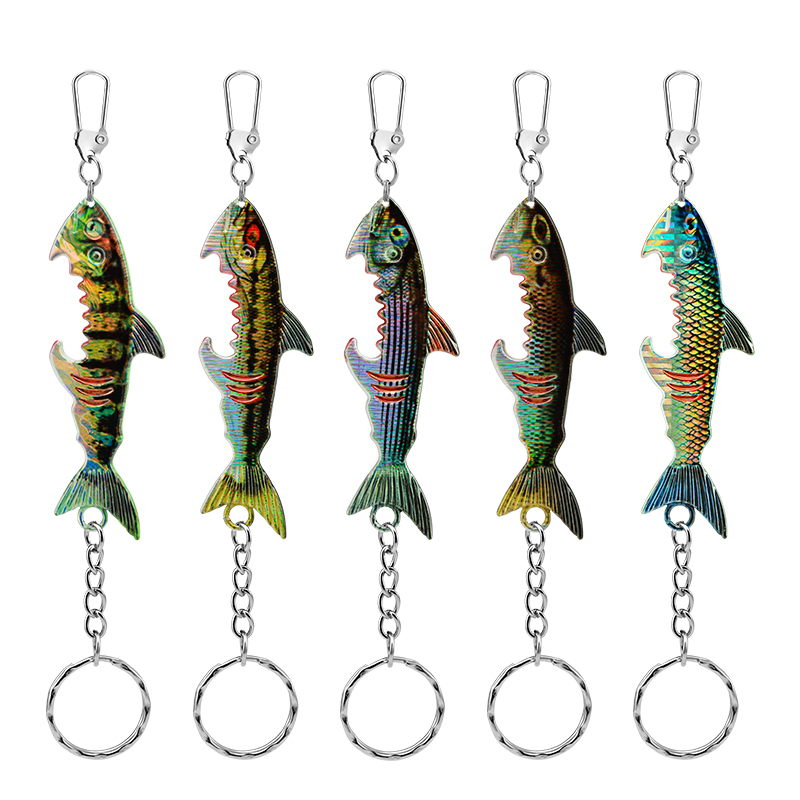
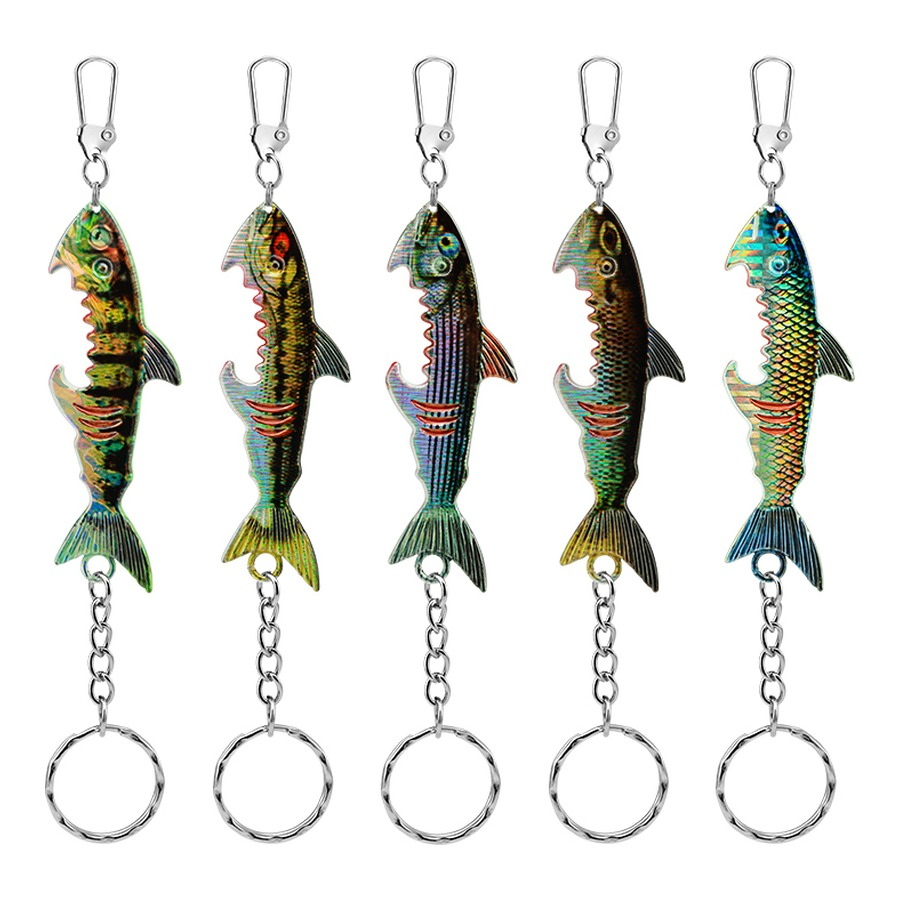
Uniform product grid: standardized square white-bg images, aligned cards and buy buttons

Changed region(s): [[0.0312, 0.0625, 0.9688, 0.9688]]

diff --git a/index.html b/index.html
@@ -189,27 +189,27 @@
   .gear-grid { display: grid; grid-template-columns: repeat(4, 1fr); gap: 20px; }
   .card {
     background: var(--navy-900); border: 1px solid var(--hairline);
-    border-radius: 6px; overflow: hidden; transition: transform .2s ease, border-color .2s ease;
+    border-radius: 6px; overflow: hidden;
+    display: flex; flex-direction: column;
+    transition: transform .2s ease, border-color .2s ease;
   }
   .card:hover { transform: translateY(-4px); border-color: rgba(217,158,70,0.4); }
   .card-thumb {
-    aspect-ratio: 4/3; display: grid; place-items: center; position: relative;
-    background:
-      radial-gradient(80% 90% at 50% 100%, rgba(217,158,70,0.14) 0%, rgba(217,158,70,0) 60%),
-      linear-gradient(180deg, var(--navy-700) 0%, var(--navy-900) 100%);
+    aspect-ratio: 1/1; display: grid; place-items: center; position: relative;
+    background: #fff;
   }
   .card-thumb .ph {
     font-family: var(--font-sub); font-size: 11px; letter-spacing: 2px;
-    text-transform: uppercase; color: var(--cream-faint);
+    text-transform: uppercase; color: #9a9a9a;
   }
   .card-thumb img {
     position: absolute; inset: 0; width: 100%; height: 100%;
-    object-fit: cover; opacity: 0; transition: opacity .3s ease;
+    object-fit: contain; opacity: 0; transition: opacity .3s ease;
   }
   .card-thumb img.loaded { opacity: 1; }
-  .card-body { padding: 22px; }
+  .card-body { padding: 22px; display: flex; flex-direction: column; flex: 1 1 auto; }
   .card-body h3 { font-family: var(--font-sub); font-size: 18px; letter-spacing: 1px; text-transform: uppercase; margin-bottom: 8px; }
-  .card-body p { font-size: 14.5px; color: var(--cream-dim); min-height: 44px; }
+  .card-body p { font-size: 14.5px; color: var(--cream-dim); min-height: 44px; flex: 1 1 auto; }
   .card-meta {
     display: flex; align-items: baseline; justify-content: space-between;
     gap: 12px; margin-top: 16px;
@@ -529,10 +529,10 @@
   <div class="wrap">
     <div class="sec-label">More in every box</div>
     <h2 class="sec-title">Hand-packed, every time</h2>
-    <p>Every order ships straight from us — a thank-you card, a Big C's sticker, and a free gift we think you'll like. It's our way of saying thanks for the first cast, and earning the next one.</p>
+    <p>Every order ships straight from us — a thank-you card, a random sticker, and a free gift we think you'll like. It's our way of saying thanks for the first cast, and earning the next one.</p>
     <div class="gift-row">
       <span class="gift-chip"><span class="dot">•</span>Thank-you card</span>
-      <span class="gift-chip"><span class="dot">•</span>Big C's sticker</span>
+      <span class="gift-chip"><span class="dot">•</span>Random sticker</span>
       <span class="gift-chip"><span class="dot">•</span>Free gift with purchase</span>
     </div>
   </div>

diff --git a/thank-you-card.html b/thank-you-card.html
@@ -1,0 +1,66 @@
+<!DOCTYPE html>
+<html lang="en">
+<head>
+<meta charset="UTF-8">
+<meta name="viewport" content="width=device-width, initial-scale=1.0">
+<title>Thank You Card — Big C's Fishing Co.</title>
+<link rel="preconnect" href="https://fonts.googleapis.com">
+<link rel="preconnect" href="https://fonts.gstatic.com" crossorigin>
+<link href="https://fonts.googleapis.com/css2?family=Bebas+Neue&family=Oswald:wght@400;600&family=Source+Sans+3:wght@400;600&display=swap" rel="stylesheet">
+<style>
+  * { margin: 0; padding: 0; box-sizing: border-box; }
+  body { background: #151515; min-height: 100vh; display: grid; place-items: center; padding: 24px; }
+
+  /* Card: 3.5" x 2" at 300dpi = 1050 x 600 px */
+  .card {
+    width: 1050px; height: 600px;
+    position: relative; overflow: hidden;
+    display: flex; align-items: center;
+    padding: 48px 60px;
+    background: #0a0d12;
+    color: #e6e0d4;
+    font-family: "Source Sans 3", "Segoe UI", sans-serif;
+    box-shadow: inset 0 0 0 6px #d99e46;
+  }
+
+  .logo { flex: 0 0 auto; width: 230px; height: 230px; margin-right: 52px; filter: drop-shadow(0 12px 34px rgba(0,0,0,0.55)); }
+  .logo img { width: 100%; height: 100%; object-fit: contain; display: block; }
+
+  .txt { flex: 1 1 auto; min-width: 0; }
+
+  .thanks {
+    font-family: "Bebas Neue", Impact, sans-serif; font-weight: 400;
+    font-size: 92px; line-height: 0.92; letter-spacing: 1px;
+    text-transform: uppercase; color: #e6e0d4;
+  }
+  .thanks .accent { color: #d99e46; }
+
+  .tagline {
+    font-family: "Oswald", "Arial Narrow", sans-serif; font-weight: 400;
+    font-size: 21px; letter-spacing: 5px; text-transform: uppercase;
+    color: #d99e46; margin: 16px 0 24px;
+  }
+
+  .body { font-size: 25px; line-height: 1.45; color: #b6ad9d; max-width: 44ch; }
+  .body strong { color: #e6e0d4; font-weight: 600; }
+
+  .foot {
+    margin-top: 28px;
+    font-family: "Oswald", "Arial Narrow", sans-serif; font-size: 16px;
+    letter-spacing: 2.5px; text-transform: uppercase; color: #8a8478;
+  }
+  .foot a { color: #d99e46; text-decoration: none; }
+</style>
+</head>
+<body>
+  <div class="card">
+    <div class="logo"><img src="assets/logo.png" alt="Big C's Fishing Co. logo"></div>
+    <div class="txt">
+      <div class="thanks">Thanks for<br>fishing <span class="accent">with us.</span></div>
+      <div class="tagline">Built to catch. Made to last.</div>
+      <div class="body">Hand-packed with a little extra in the box. Your feedback helps a small brand reach more anglers — a quick review means a lot.</div>
+      <div class="foot"><a href="mailto:hello@bigcsfishing.com">hello@bigcsfishing.com</a> &nbsp;·&nbsp; bigcsfishing.com</div>
+    </div>
+  </div>
+</body>
+</html>

diff --git a/_standardize.py b/_standardize.py
@@ -1,0 +1,50 @@
+import os
+from PIL import Image
+
+PRODUCTS = r"C:/Users/bclar/OneDrive/Desktop/Amazon FBA/big-cs-fishing-co/assets/products"
+BIG = r"C:/Users/bclar/OneDrive/Desktop/Amazon FBA/Big Cs Fishing"
+
+S = 900      # output square size
+PAD = 0.05   # padding fraction
+
+def standardize(src, out):
+    im = Image.open(src).convert("RGB")
+    w, h = im.size
+    corners = [im.getpixel((2, 2)), im.getpixel((w - 3, 2)),
+               im.getpixel((2, h - 3)), im.getpixel((w - 3, h - 3))]
+    lum = sum(c[0] + c[1] + c[2] for c in corners) / (12.0 * 255)
+    bg = "white" if lum > 0.75 else "dark"
+    g = im.convert("L")
+    mask = g.point(lambda p: 0 if p > 238 else 255) if bg == "white" \
+        else g.point(lambda p: 0 if p < 28 else 255)
+    bbox = mask.getbbox()
+    if not bbox:
+        bbox = (0, 0, w, h)
+    crop = im.crop(bbox)
+    cw, ch = crop.size
+    maxside = S * (1 - 2 * PAD)
+    scale = min(maxside / cw, maxside / ch)
+    nw, nh = max(1, int(cw * scale)), max(1, int(ch * scale))
+    crop = crop.resize((nw, nh), Image.LANCZOS)
+    canvas = Image.new("RGB", (S, S), (255, 255, 255))
+    canvas.paste(crop, ((S - nw) // 2, (S - nh) // 2))
+    canvas.save(out, quality=92)
+    return bg, bbox, (nw, nh)
+
+jobs = [
+    ("braided-line",       os.path.join(PRODUCTS, "braided-line.jpg")),
+    ("mono-line",          os.path.join(PRODUCTS, "mono-line.jpg")),
+    ("bottle-opener",      os.path.join(PRODUCTS, "bottle-opener.jpg")),
+    ("rod-strap",          os.path.join(PRODUCTS, "rod-strap.jpg")),
+    ("crankbait-keychains", os.path.join(BIG, "Crank Bait Keychain", "CB 1.jpg")),
+    ("spoon-set",          os.path.join(BIG, "10pc Spinner Lure", "Images", "Whole Set.jpg")),
+    ("pencil-lure",        os.path.join(PRODUCTS, "pencil-lure.jpg")),
+    ("knot-card",          os.path.join(PRODUCTS, "knot-card.jpg")),
+]
+
+for name, src in jobs:
+    try:
+        bg, bbox, size = standardize(src, os.path.join(PRODUCTS, name + ".jpg"))
+        print(f"{name}: bg={bg} src_bbox={bbox} fitted={size}")
+    except Exception as e:
+        print(f"{name}: ERROR {e}")

diff --git a/_render_card.py b/_render_card.py
@@ -1,0 +1,58 @@
+import os
+from PIL import Image, ImageDraw, ImageFont
+
+W, H = 1050, 600  # 3.5" x 2" at 300 dpi
+OUT = r"C:/Users/bclar/OneDrive/Desktop/Amazon FBA/big-cs-fishing-co"
+LOGO = os.path.join(OUT, "assets", "logo.png")
+FDIR = r"C:/Windows/Fonts"
+
+def font(name, size):
+    p = os.path.join(FDIR, name)
+    return ImageFont.truetype(p, size) if os.path.exists(p) else ImageFont.load_default()
+
+CREAM = (230, 224, 212)
+GOLD = (217, 158, 70)
+DIM = (182, 173, 157)
+
+# --- deep navy background so the logo colors pop ---
+img = Image.new("RGB", (W, H), (10, 13, 18))
+d = ImageDraw.Draw(img)
+
+# --- full logo, large, left-center ---
+logo = Image.open(LOGO).convert("RGBA")
+ls = 520
+logo = logo.resize((ls, ls), Image.LANCZOS)
+img.paste(logo, (30, 40), logo)
+
+# --- text block, right side ---
+def fit_head(text, start, maxw):
+    size = start
+    while size > 30:
+        f = font("arialbd.ttf", size)
+        if d.textlength(text, font=f) <= maxw:
+            return f
+        size -= 2
+    return font("arialbd.ttf", size)
+
+tx = 585
+maxw = W - tx - 20  # ~445
+f_head = fit_head("FISHING WITH US", 60, maxw)
+
+f_tag = font("georgiai.ttf", 26)
+f_body = font("segoeui.ttf", 25)
+f_foot = font("arial.ttf", 18)
+
+d.text((tx, 150), "THANKS FOR", font=f_head, fill=CREAM)
+d.text((tx, 240), "FISHING WITH US", font=f_head, fill=GOLD)
+d.text((tx, 345), "BUILT TO CATCH.  MADE TO LAST.", font=f_tag, fill=CREAM)
+d.text((tx, 412), "Hand-packed with a little extra", font=f_body, fill=DIM)
+d.text((tx, 446), "in the box. A quick review means a lot.", font=f_body, fill=DIM)
+d.text((tx, 528), "hello@bigcsfishing.com  \u00b7  bigcsfishing.com", font=f_foot, fill=GOLD)
+
+# --- gold border ---
+d.rectangle([8, 8, W - 9, H - 9], outline=GOLD, width=4)
+
+print("headline size:", f_head.size, "| width:", int(d.textlength("FISHING WITH US", font=f_head)))
+img.save(os.path.join(OUT, "thank-you-card.png"))
+img.save(os.path.join(OUT, "thank-you-card-preview.jpg"), quality=92)
+print("saved")
